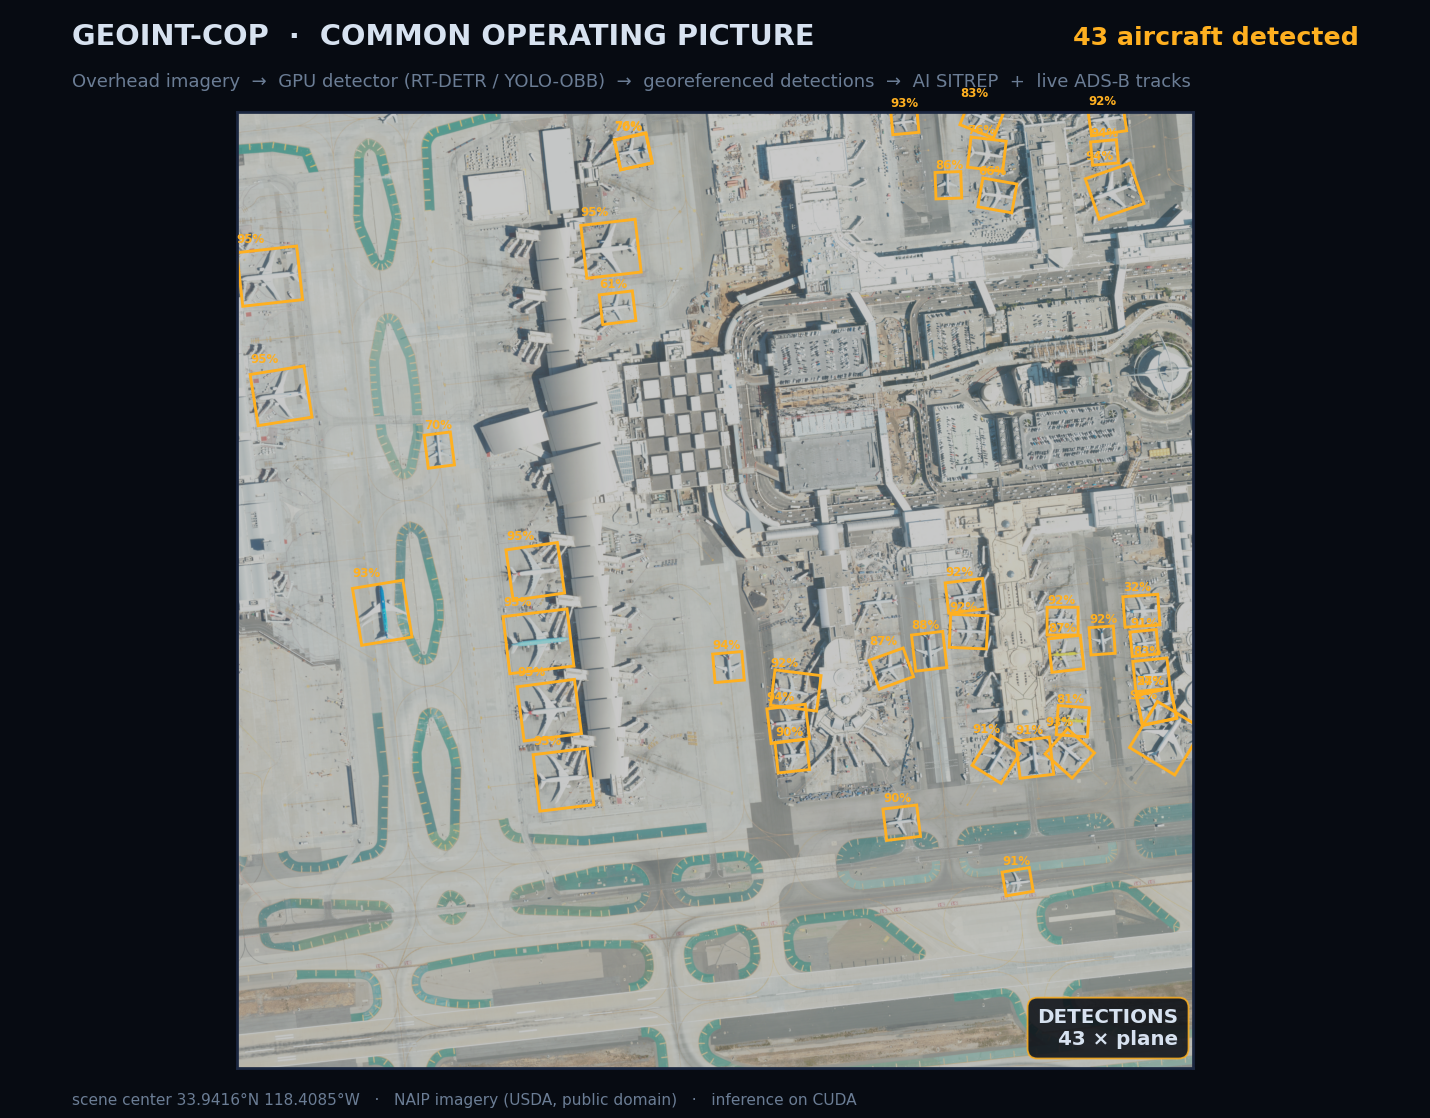
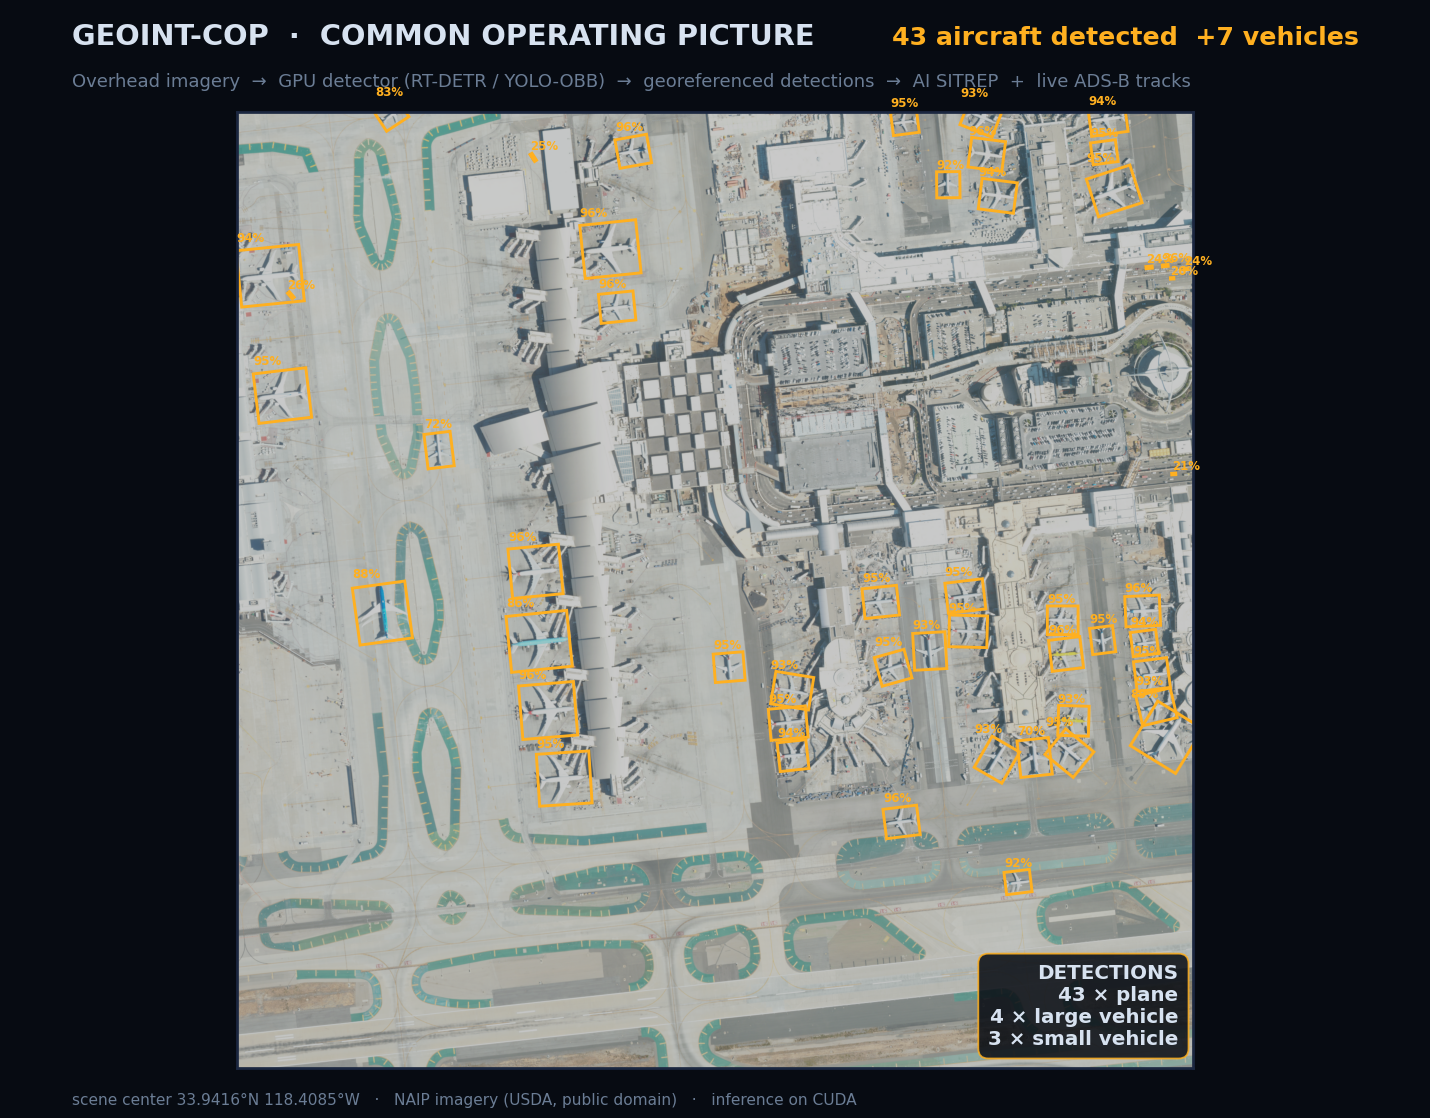
Native-resolution inference (+7 detections); remove Google Maps screenshot
imgsz=2048 instead of the 640 default so small aircraft survive the resize.
image.png was a Google Maps capture - replaced by docs/hero.png (NAIP, public domain).

diff --git a/make_hero.py b/make_hero.py
@@ -22,6 +22,7 @@ from rasterio.warp import transform as warp_transform
 from ultralytics import YOLO
 
 TIF, MODEL, CONF = "naip_clip.tif", "yolo26m-obb.pt", 0.20
+IMGSZ = 2048   # infer at native resolution; the 640px default misses small aircraft
 BG, INK, DIM, ACC = "#070b12", "#d7e2f0", "#6b7d95", "#ffb020"
 
 # --- imagery + georeference ---
@@ -33,7 +34,7 @@ with rasterio.open(TIF) as ds:
 
 # --- real detection on the GPU ---
 model = YOLO(MODEL)
-r = model.predict(rgb, conf=CONF, device="cuda", verbose=False)[0]
+r = model.predict(rgb, conf=CONF, imgsz=IMGSZ, device="cuda", verbose=False)[0]
 obb = r.obb
 labels = [r.names[int(c)] for c in obb.cls]
 counts = Counter(labels)
@@ -46,8 +47,10 @@ fig = plt.figure(figsize=(11, 8.6), facecolor=BG)
 
 fig.text(0.05, 0.960, "GEOINT-COP  ·  COMMON OPERATING PICTURE",
          fontsize=16, fontweight="bold")
-n = len(polys)
-fig.text(0.95, 0.960, f"{n} aircraft detected", ha="right",
+n_planes = counts.get("plane", 0)
+n_other = len(polys) - n_planes
+headline = f"{n_planes} aircraft detected" + (f"  +{n_other} vehicles" if n_other else "")
+fig.text(0.95, 0.960, headline, ha="right",
          fontsize=14, fontweight="bold", color=ACC)
 fig.text(0.05, 0.922, "Overhead imagery  →  GPU detector (RT-DETR / YOLO-OBB)  →  "
                       "georeferenced detections  →  AI SITREP  +  live ADS-B tracks",
@@ -77,5 +80,5 @@ ax.text(0.985, 0.02, "DETECTIONS\n" + "\n".join(lines),
 
 os.makedirs("docs", exist_ok=True)
 fig.savefig("docs/hero.png", dpi=130, facecolor=BG)
-print(f"[+] wrote docs/hero.png - {n} detections: {dict(counts)}")
+print(f"[+] wrote docs/hero.png - {len(polys)} detections: {dict(counts)}")
 print(f"    scene center: {lat:.5f}, {lon:.5f}")
